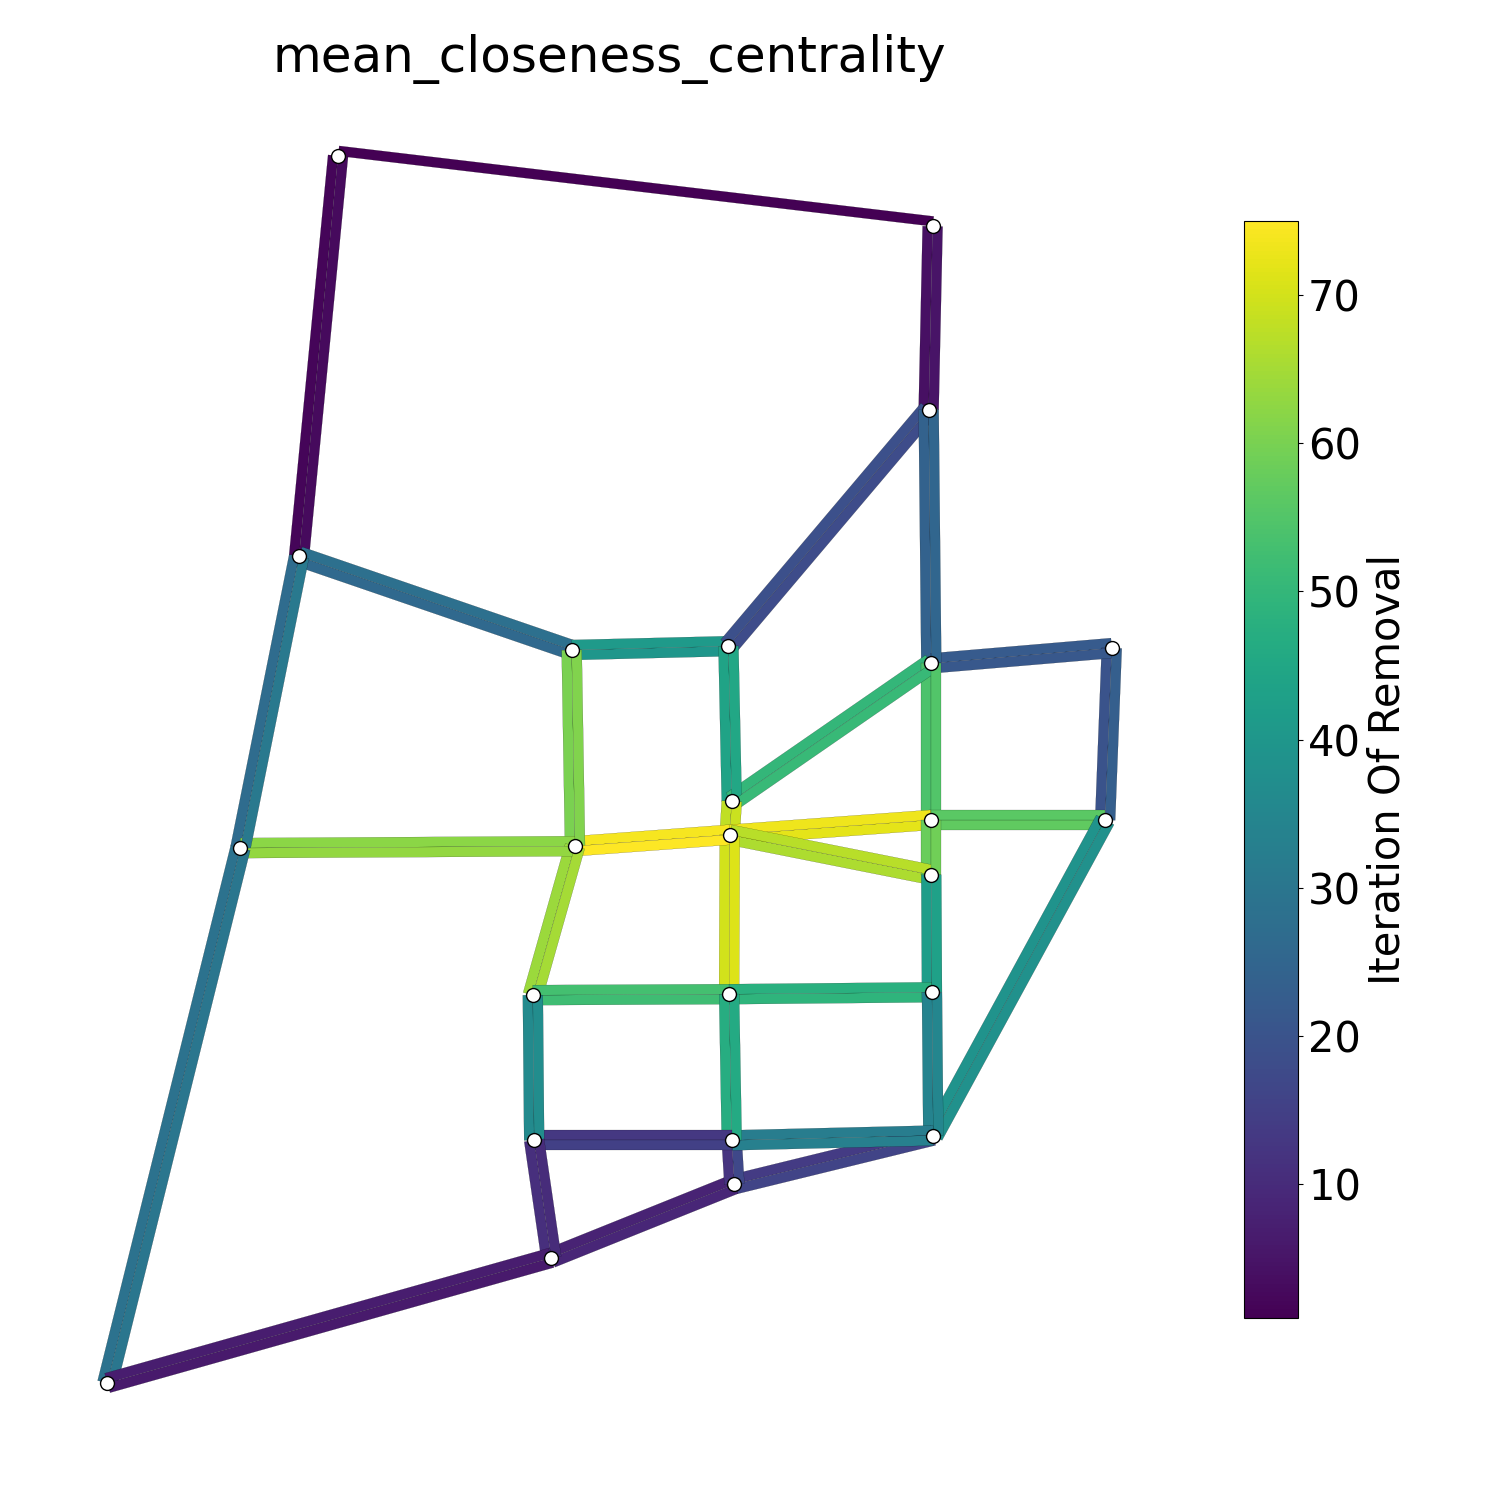
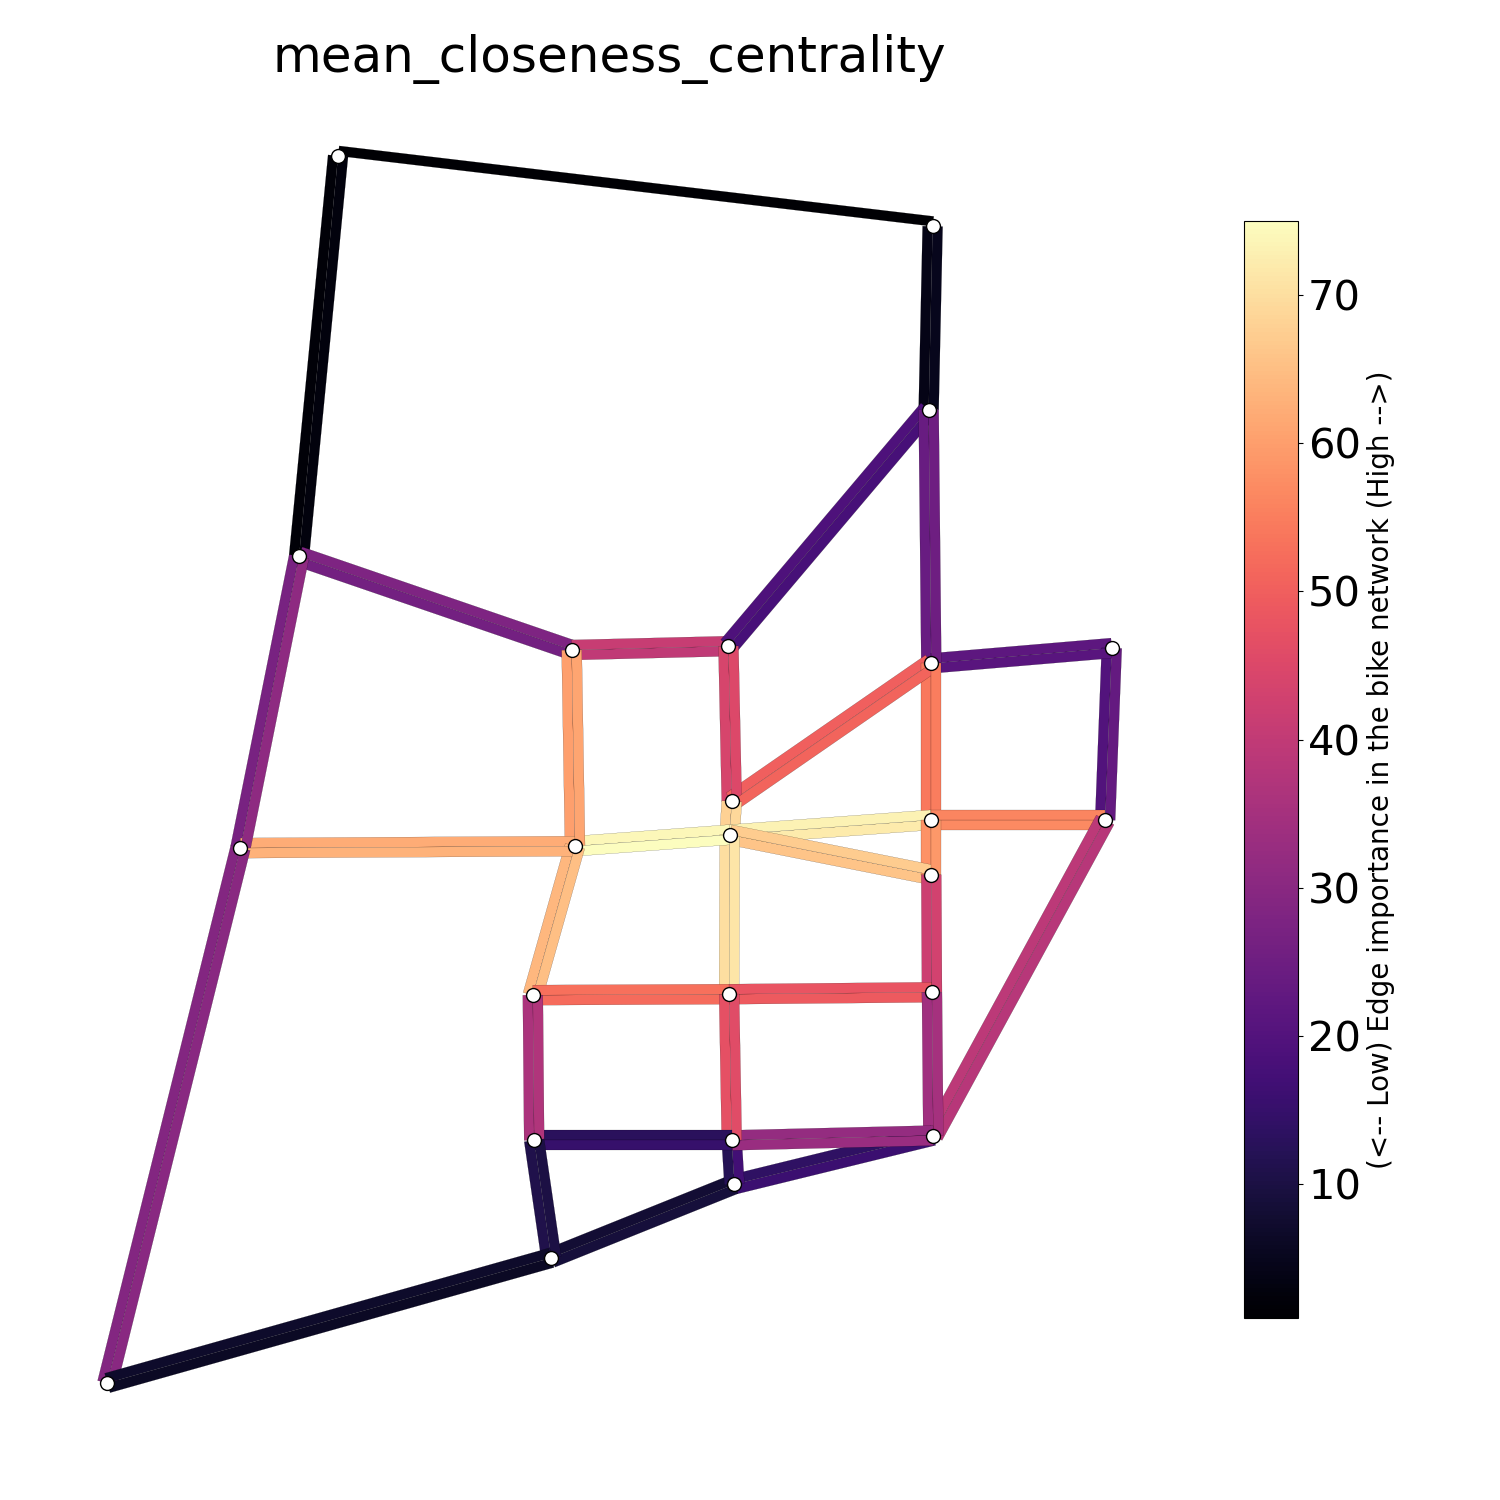
small change in the plots

Changed region(s): [[0.0613, 0.092, 0.7667, 0.92], [0.828, 0.1227, 0.9507, 0.8893]]

diff --git a/plot_optimization.py b/plot_optimization.py
@@ -46,7 +46,7 @@ for ax in axes:
 
 
 os.makedirs(f"output/optimization/test_parametres/{horodatage}/images", exist_ok=True)
-plt.savefig(f"output/optimization/test_parametres/{horodatage}/images/all_plots.png")
+plt.show()
 
 
 for metric in list_metric_of_selection:
@@ -80,5 +80,6 @@ for metric in list_metric_of_selection:
                          base_width=1,
                          legend=True,
                          title=metric,
-                     ax=ax, show_nodes=True)
+                 cmap="magma",
+                     ax=ax, show_nodes=True, colorbar_label = "(<-- Low) Edge importance in the bike network (High -->)")
     plt.savefig(f"output/optimization/test_parametres/{horodatage}/images/network_{metric}.png")

diff --git a/utils_plotting.py b/utils_plotting.py
@@ -142,7 +142,8 @@ def plot_network(edges_df, nodes_df, ax=None, figsize=(10, 10), node_x_col='x', 
         # Determine colorbar label
         if colorbar_label is None:
             colorbar_label = color_col_num.replace('_', ' ').title()
-        cbar = plt.colorbar(sm, ax=ax, label=colorbar_label, shrink=0.8)
+        cbar = plt.colorbar(sm, ax=ax, shrink=0.8)
+        cbar.set_label(colorbar_label, fontsize=20)
 
     if edges_label_col is not None and edges_label_col in edges_df.columns:
         for _, edge in edges_df.iterrows():
